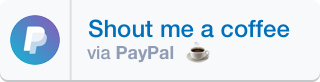
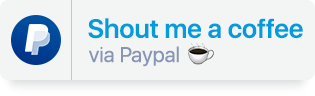
upd 2.2

Changed region(s): [[0.2571, 0.1707, 0.9714, 0.7805], [0.0286, 0.0, 0.2286, 0.8293], [0.0, 0.9024, 1.0, 1.0]]

diff --git a/Ai2Psd.jsx b/Ai2Psd.jsx
@@ -4,14 +4,6 @@
 * This script may help to prepare vector layers to export from AI to PSD file. 
 * After usage of the script you should export the file manually via File > Export (.psd)
 *
-* INSTALLATION:
-* 1. Place script in:
-*    Win (32 bit): C:\Program Files (x86)\Adobe\Adobe Illustrator [vers.]\Presets\en_GB\Scripts\
-*    Win (64 bit): C:\Program Files\Adobe\Adobe Illustrator [vers.] (64 Bit)\Presets\en_GB\Scripts\
-*    Mac OS: <hard drive>/Applications/Adobe Illustrator [vers.]/Presets.localized/en_GB/Scripts
-* 2. Restart Illustrator
-* 3. Choose File > Scripts > Ai2Psd
-*
 * NOTICE:
 * Tested with Adobe Illustrator CS6 (Win), CC 2017 (Mac).
 * This script is provided "as is" without warranty of any kind.
@@ -35,7 +27,7 @@
 ******************************************************************************************/
 
 #target illustrator
-//app.userInteractionLevel = UserInteractionLevel.DONTDISPLAYALERTS;
+app.userInteractionLevel = UserInteractionLevel.DONTDISPLAYALERTS;
 
 var GRADIENT = "GradientColor";
 var PATTERN = "PatternColor";
@@ -154,7 +146,7 @@ function start() {
     app.unloadAction('Ai-to-Psd', '');
     var time = $.hiresTimer/1000000; // End script timer
     win.close();
-    alert('Done. Prepared in ' + time.toFixed(0) + ' seconds.\n' + 'Export PSD: File \u2192 Export \u2192 Export as...\n' + 'Options: Write Layers, turn on all checkbox');
+    alert('Done. Prepared in ' + time.toFixed(1) + ' seconds.\n' + 'Export PSD: File \u2192 Export \u2192 Export as...\n' + 'Options: Write Layers, turn on all checkbox');
 }
 
 function deselect() {

diff --git a/readme.md b/readme.md
@@ -12,12 +12,16 @@
 
 ## Description
 The script may help to prepare vector layers for export from AI to PSD file.  
-All `solid filled` objects remain vector in the PSD.
+All `solid filled` objects remain vector in the PSD.   
+
+<a href="https://github.com/creold/ai-to-psd/archive/master.zip ">
+  <img width="160" height="49" src="images/download.png" >
+</a>
 
 
 ## Installation 
 
-1. [Download archive] and unzip
+1. [Download archive] and unzip   
 2. Place `Ai2Psd.jsx` in the Illustrator Scripts folder:
 	- OS X: `/Applications/Adobe Illustrator [vers.]/Presets.localized/en_GB/Scripts`
 	- Windows (32 bit): `C:\Program Files (x86)\Adobe\Adobe Illustrator [vers.]\Presets\en_GB\Scripts\`
@@ -64,16 +68,20 @@ The script has been tested on Illustrator CS6 (Win), Illustrator CC 2017 (Mac OS
 
 ## Contribute
 
-This plugin is in active development.  
+This script is in active development.  
 Found a bug? Please [submit a new issues](https://github.com/creold/ai-to-psd/issues) on GitHub.
 
 ## Donate (optional)
-If you find this plugin helpful, consider shouting me juice ☕ via [PayPal] or [Yandex Money] 🙂  
+If you find this script helpful, consider shouting me coffee ☕ via [PayPal] or [Yandex Money] 🙂  
 
 [PayPal]: https://paypal.me/osokin/2usd
 [Yandex Money]: https://money.yandex.ru/to/410011149615582
 <a href="https://paypal.me/osokin/2usd">
-  <img width="160" height="41" src="images/paypal-badge.png" >
+  <img width="160" height="49" src="images/paypal-badge.png" >
+</a>  
+
+<a href="https://money.yandex.ru/to/410011149615582">
+  <img width="160" height="49" src="images/yandex-badge.png" >
 </a>
 
 ### Contact
